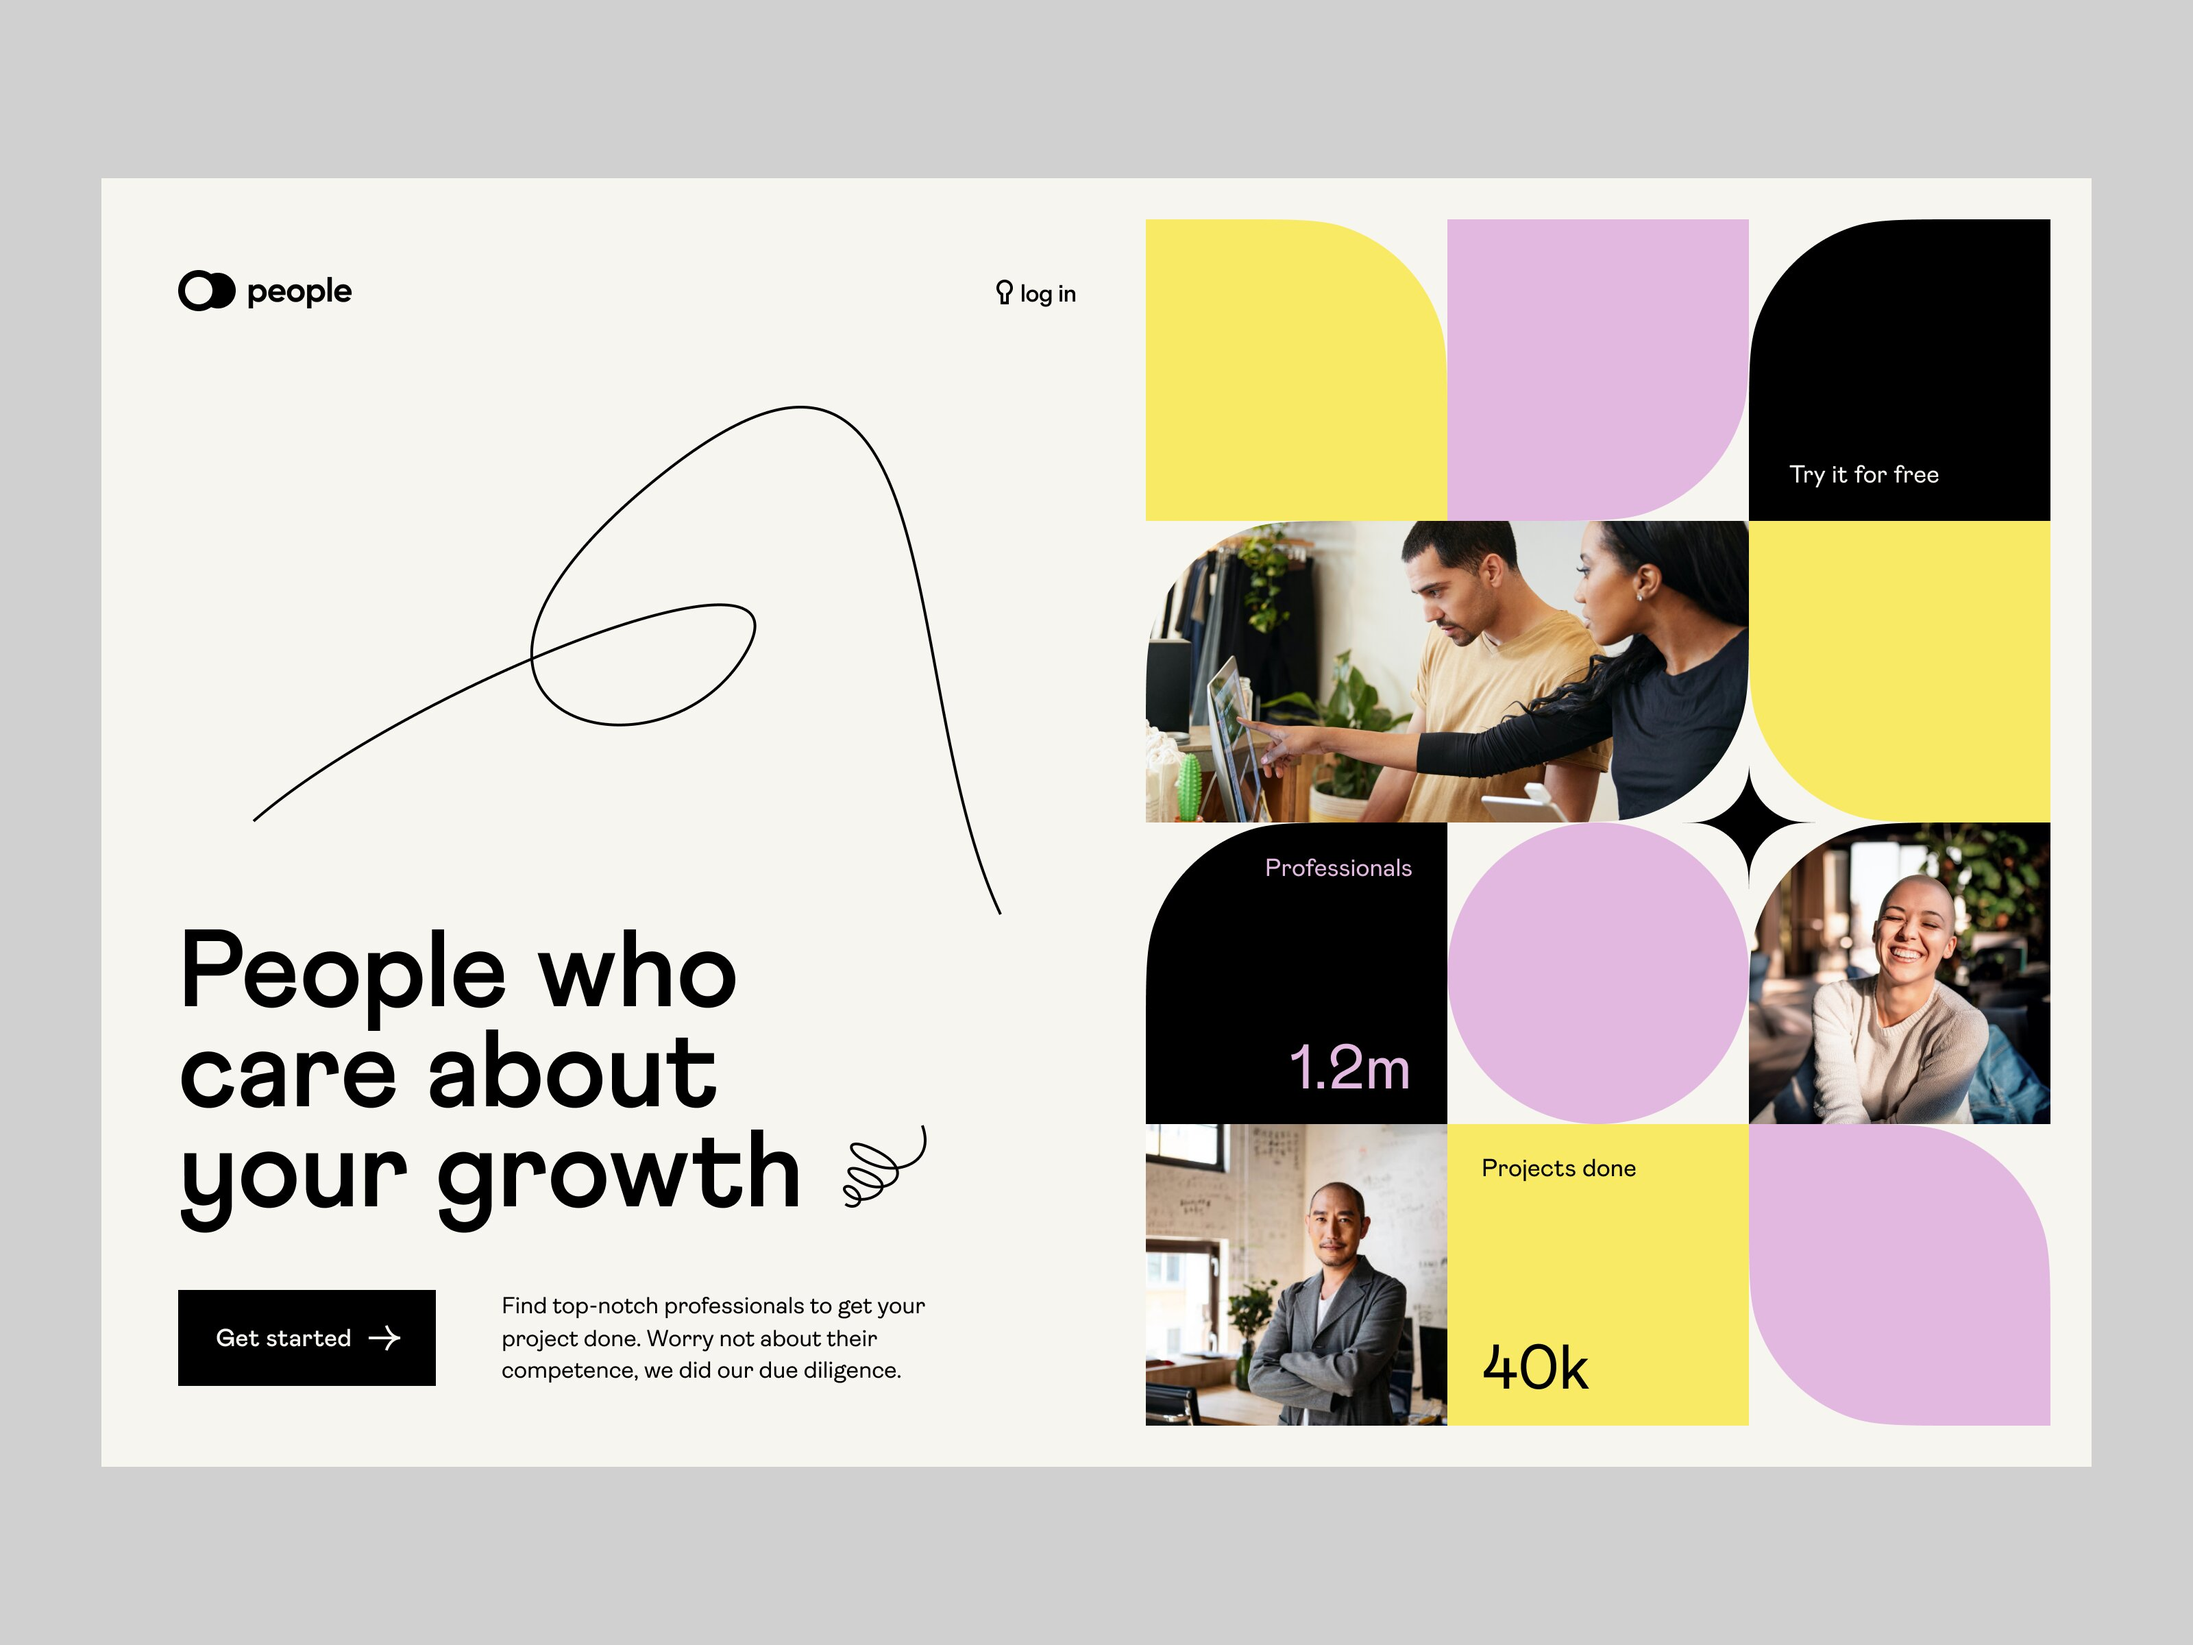
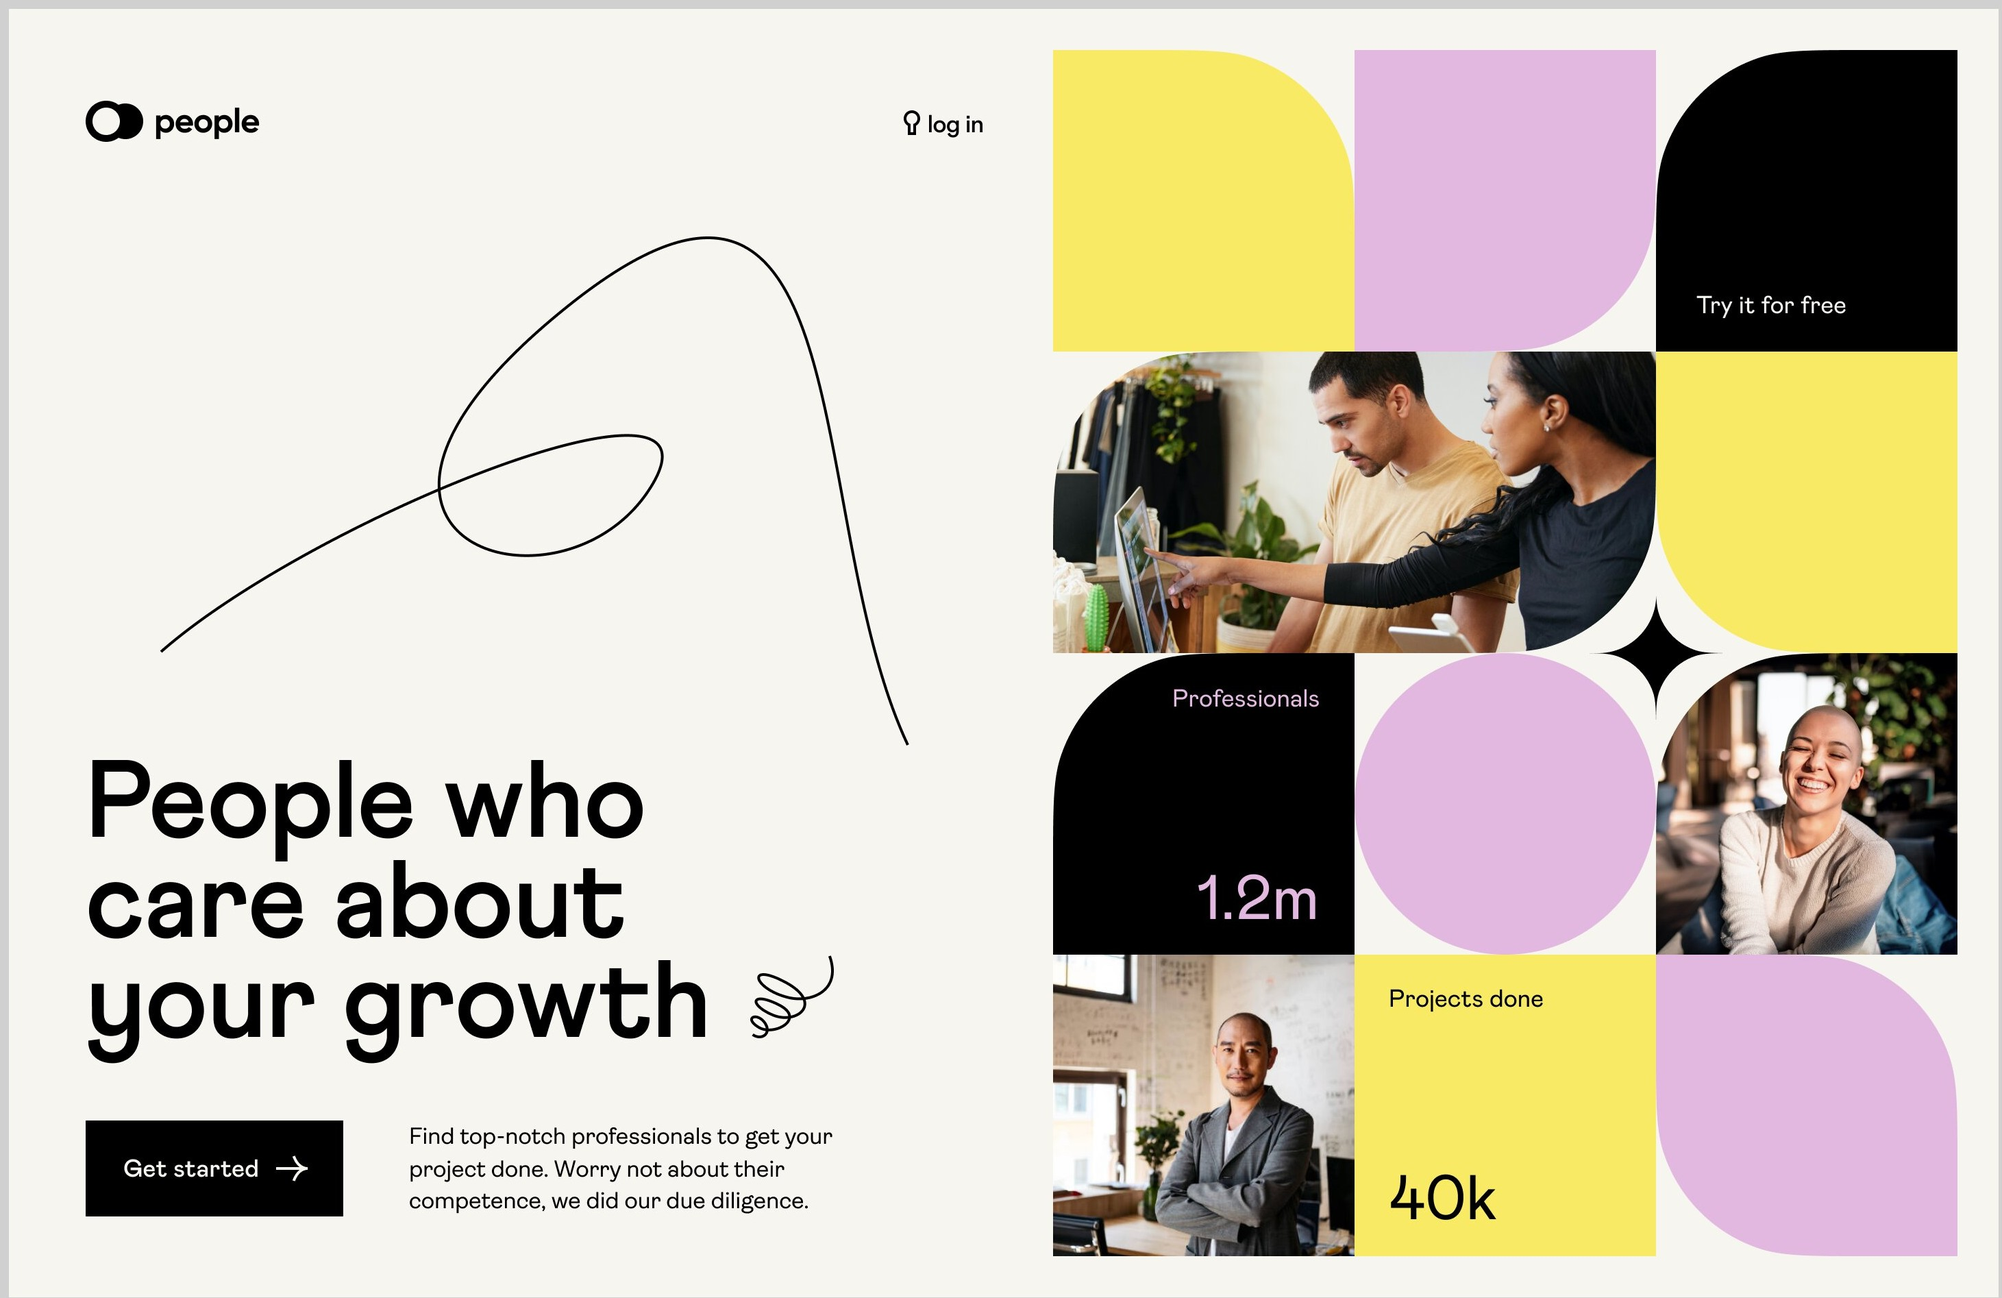
se termino el diseño en resolucion 1320*760

diff --git a/css/style.css b/css/style.css
@@ -1,0 +1,228 @@
+:root {
+  --white:#ebe9dc;
+  --gray: #a1a1a1;
+  --black: #090706;
+  /* --yellow: #eacb29; */
+  --yellow: #eaca29b0;
+  /* --purple: #c279be; */
+  --purple: #c279beb0;
+  --brown: #986443;
+  --brownb: #5c4b3f;
+}
+* {
+  margin: 0;
+  padding: 0;
+  box-sizing: border-box;
+}
+html {
+  font-size: 18px;
+  font-family: 'Open Sans',sans-serif;
+  background-color: var(--white);
+}
+a {
+  color: inherit;
+  text-decoration: none;
+}
+
+a:focus {
+  outline: none;
+}
+img {
+  max-width: 100%;
+}
+/* BACKGROUND */
+.bg-yellow {
+  background-color: var(--yellow);
+}
+.bg-purple {
+  background-color: var(--purple);
+}
+.bg-black {
+  background-color: var(--black);
+  color: var(--white);
+}
+/* TEXTOS */
+.text-bottom {
+  display: flex;
+  flex-direction: column;
+  justify-content: end;
+}
+.text-between {
+  display: flex;
+  flex-direction: column;
+  justify-content: space-between;
+}
+.text-between span {
+  display: inline-flex;
+  justify-content: flex-end;
+}
+.text-right span {
+  display: initial;
+}
+.text-purple {
+  color: #db88d7;;
+}
+.text-number {
+  font-size: 1.7em;
+}
+/* Estilos para cuadros */
+.radius-all {
+  border-radius: 50%;
+}
+.radius-line1 {
+  border-radius:0 50% 0 50%;
+}
+.radius-line2 {
+  --sz:25%;
+  border-radius:var(--sz) 0 var(--sz) 0;
+}
+
+.radius-tr {
+  border-radius:0 50% 0 0;
+}
+.radius-tl {
+  border-radius:50% 0 0 0;
+}
+.radius-br {
+  border-radius:0 0 50% 0;
+}
+.radius-bl {
+  border-radius:0 0 0 50%;
+}
+
+
+.bold {
+  font-weight: 700;
+}
+/* font-family: 'Open Sans', sans-serif; */
+
+/* H1 */
+.h1 {
+  font-size: 3em;
+  margin-bottom: 1.2rem;
+  display: flex;
+}
+.h1>div {
+  display: flex;
+  align-items: flex-end;
+  margin-left: 1em;
+}
+.h1 img {
+  width: 95px;
+  transform:translate(-100%,0) rotate(40deg);
+}
+
+
+/* MENU */
+.menu {
+  display: flex;
+  justify-content: space-between;
+  align-items: center;
+  padding: 1.4rem 0 4rem;
+}
+.logo img {
+  width:40px;
+}
+.login img {
+  width: 18px;
+}
+.login a:hover {
+  text-decoration: underline;
+}
+.g-2 {
+  display: grid;
+  grid-gap: .5em;
+  grid-template-columns: auto auto;
+  align-items: center;
+}
+/* MAIN-DESC */
+.main-desc{
+  padding: 0 1em 0 0;
+}
+/* HERO */
+.hero {
+  text-align: center;
+}
+.hero img {
+  max-width: 550px;
+}
+/* GET */
+.get {
+  display: flex;
+  align-items: center;
+}
+.get>.desc {
+  flex: 1;
+}
+.desc>p {
+  max-width: 360px;
+  margin: 0 auto;
+}
+
+
+/* button */
+.button {
+  display: inline-block;
+  background-color: var(--black);
+  color: white;
+  padding: .8em .8em;
+  border: 2px solid var(--black);
+  cursor: pointer;
+  transition: color .3s linear, background .3s linear;
+}
+.button:hover {
+  color:var(--black);
+  background-color: var(--white);
+}
+
+/* GRID PRINCIPAL  */
+.main-grid {
+  padding: 1.2em;
+  display: grid;
+  grid-template-columns: 1fr min-content;
+  grid-gap: 1.8em;
+}
+
+/* PANEL  */
+.panel {
+  --ancho:190px;
+  display: grid;
+  grid-template-columns: repeat(3,var(--ancho));
+  grid-template-rows:repeat(4,var(--ancho));
+  position: relative;
+}
+/* COCO */
+.coco {
+  z-index: -100;
+  --wi:calc(var(--ancho)/4);
+  position: absolute;
+  width: var(--wi);
+  height: var(--wi);
+  background-color: red;
+  top: calc(var(--wi)*6 + var(--wi)*1.5);
+  left: calc(var(--wi)*6 + var(--wi)*1.5);
+  background-image:radial-gradient(var(--wi) at 0 0,var(--white) 50%, transparent 50%), radial-gradient( var(--wi) at 100% 100%, var(--white) 50%, transparent 50%), radial-gradient( var(--wi) at 100% 0%, var(--white) 50%, transparent 50%), radial-gradient( var(--wi) at 0% 100%, var(--white) 50%, var(--black) 50%);
+}
+.panel>div {
+  padding: .6em .5em .6em .8em;
+}
+.panel-img1-1 {
+  background-image: url('./../multimedia/1.jpg');
+  background-position: center left;
+  background-size: 200%;
+}
+.panel-img1-2 {
+  background-image: url('./../multimedia/1.jpg');
+  background-position: center right;
+  background-size: 200%;
+}
+.panel-img2 {
+  background-image: url('./../multimedia/3.jpg');
+  background-position: center center;
+  background-size: cover;
+}
+.panel-img3 {
+  background-image: url('./../multimedia/2.jpg');
+  background-position: center center;
+  background-size: cover;
+}

diff --git a/index.html b/index.html
@@ -5,9 +5,68 @@
   <meta charset="UTF-8">
   <meta name="viewport" content="width=device-width, initial-scale=1.0">
   <title>People</title>
+  <link rel="stylesheet" href="./css/style.css">
+  <link href="https://fonts.googleapis.com/css2?family=Open+Sans:wght@400;700&display=swap" rel="stylesheet">
 </head>
 
 <body>
+  <div class="main-grid">
+    <div class="main-desc">
+      <div class="menu">
+        <div class="logo g-2">
+          <img src="./multimedia/people.svg" alt="logo">
+          <span class="bold">People</span>
+        </div>
+        <div class="login g-2">
+          <img src="./multimedia/llave.svg" alt="login">
+          <a href="#">Log in</a>
+        </div>
+      </div>
+      <div class="hero">
+        <img src="./multimedia/firma1.svg" alt="hero img">
+      </div>
+      <div class="sentence">
+        <h1 class="h1">
+          <span>
+            People who care about your growth
+          </span>
+          <div>
+            <img src="./multimedia/unalome.svg" alt="">
+          </div>
+        </h1>
+      </div>
+      <div class="get">
+        <div>
+          <a class="button">Get started →</a>
+        </div>
+        <div class="desc">
+          <p>
+            Find top-notch professionals to get your project done. Worry not about their competence, we did our due
+            diligence.
+          </p>
+        </div>
+      </div>
+    </div>
+    <div class="panel">
+      <div class="coco"></div>
+      <div class="bg-yellow radius-tr"></div>
+      <div class="bg-purple radius-br"></div>
+      <div class="bg-black radius-tl text-bottom">Try it for free</div>
+      <div class="panel-img1-1 radius-tl"></div>
+      <div class="panel-img1-2 radius-br"></div>
+      <div class="bg-yellow radius-bl"></div>
+      <div class="bg-black radius-tl text-purple text-between">
+        <span>Professionals</span><span class="text-number">1.2m</span>
+      </div>
+      <div class="bg-purple radius-all"></div>
+      <div class="panel-img2 radius-tl"></div>
+      <div class="panel-img3"></div>
+      <div class="bg-yellow text-between text-right">
+        <span>Projects done</span><span class="text-number">40k</span>
+      </div>
+      <div class="radius-line1 bg-purple"></div>
+    </div>
+  </div>
 
 </body>
 

diff --git a/README.md b/README.md
@@ -1,9 +1,11 @@
 # Websiste "people"
 
-### Original
+## Original
 
 ![](./multimedia/base.jpg)
 
+## Final
 
+![](./multimedia/final.png)
 
 Author of the original image, [here](https://dribbble.com/shots/14458191-people-visual-identity-web-page/attachments/6140647?mode=media).
